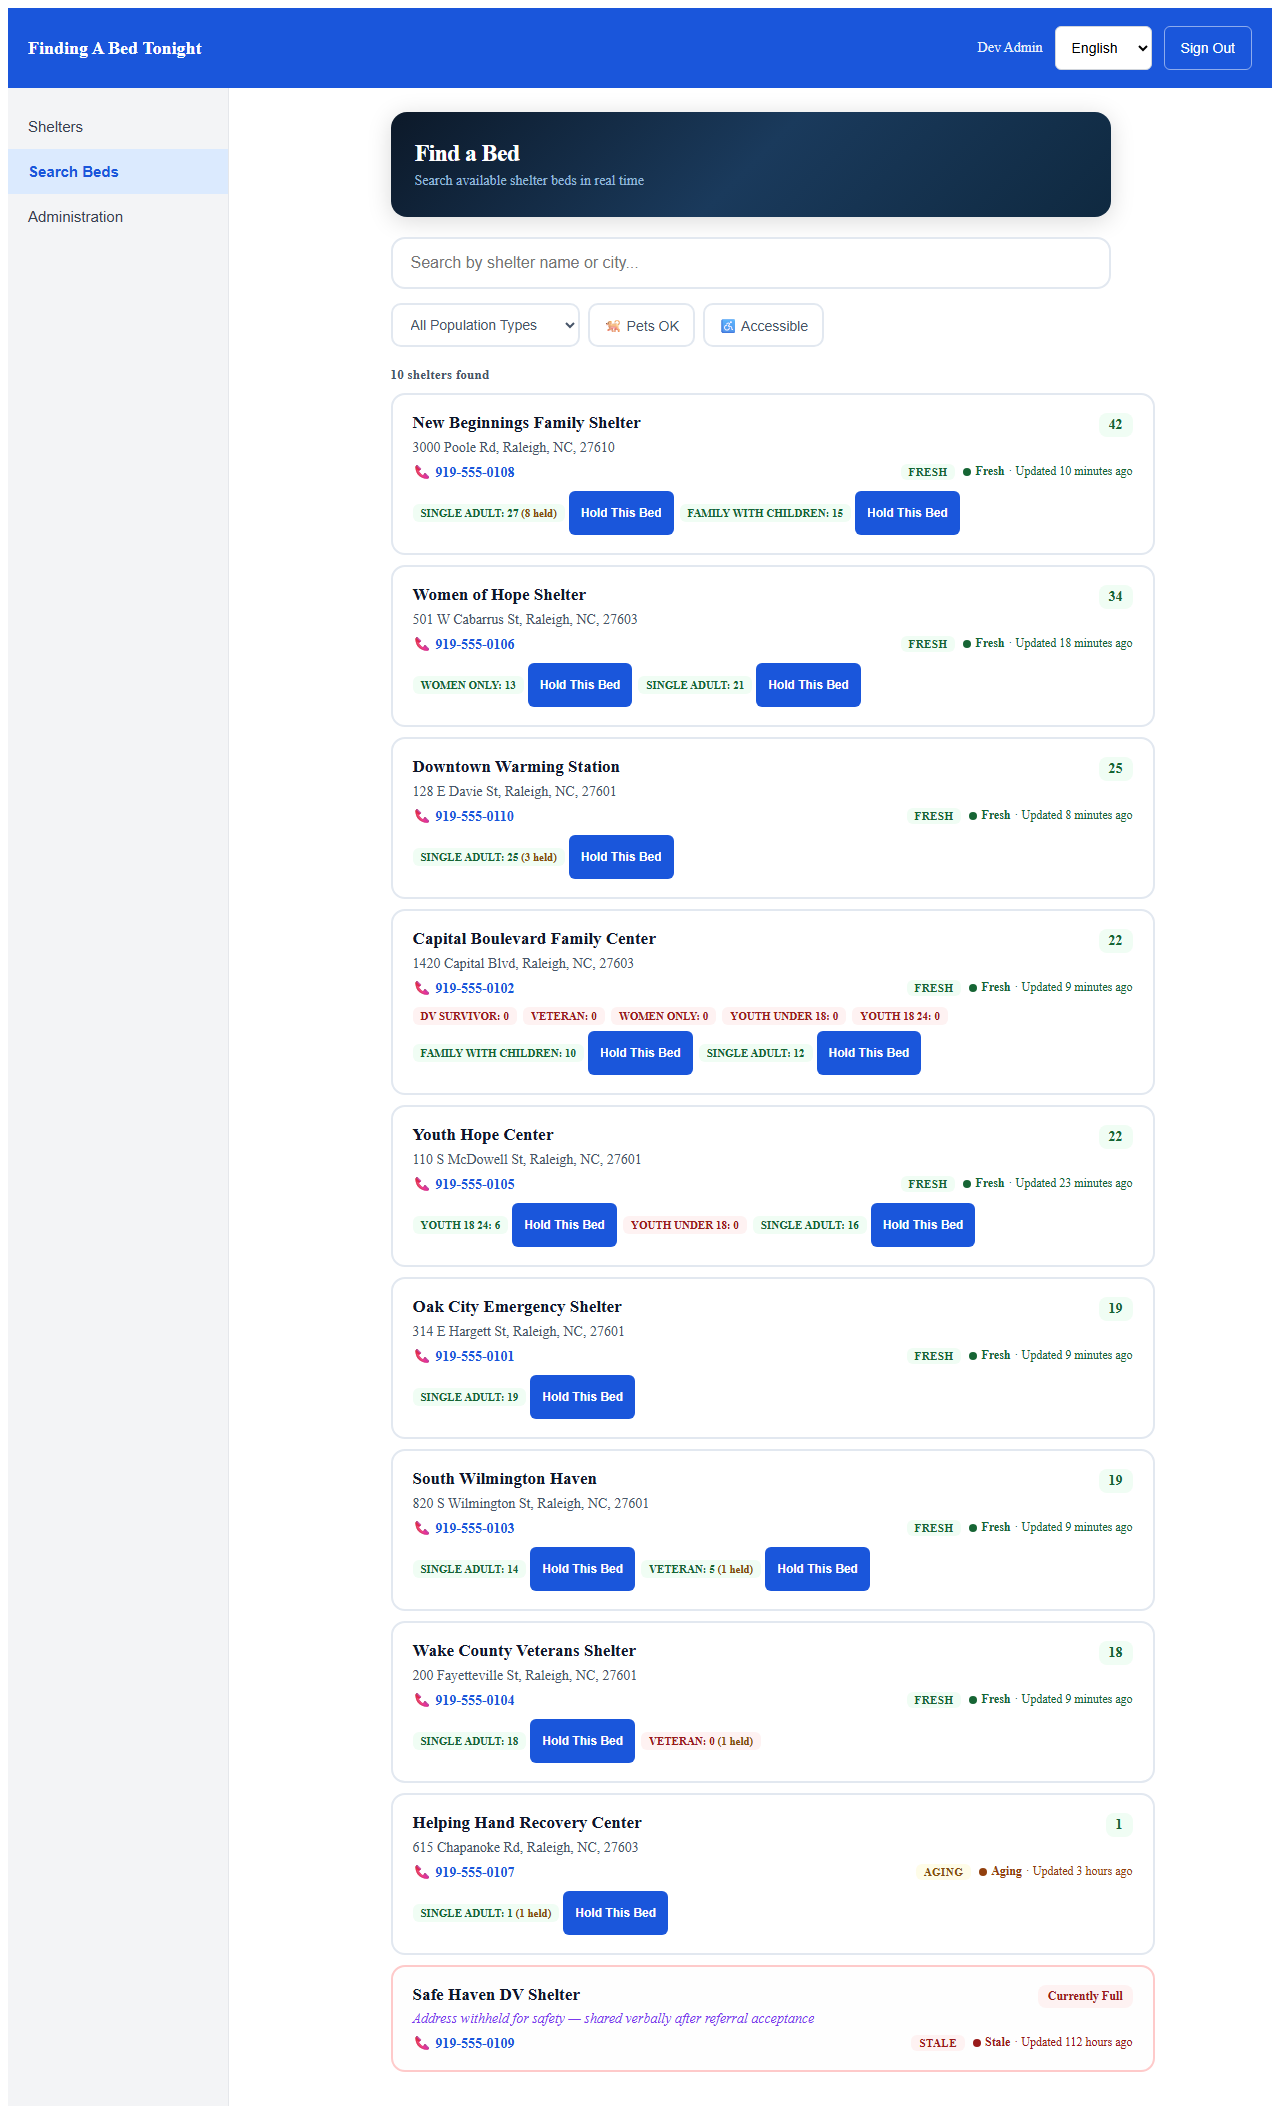
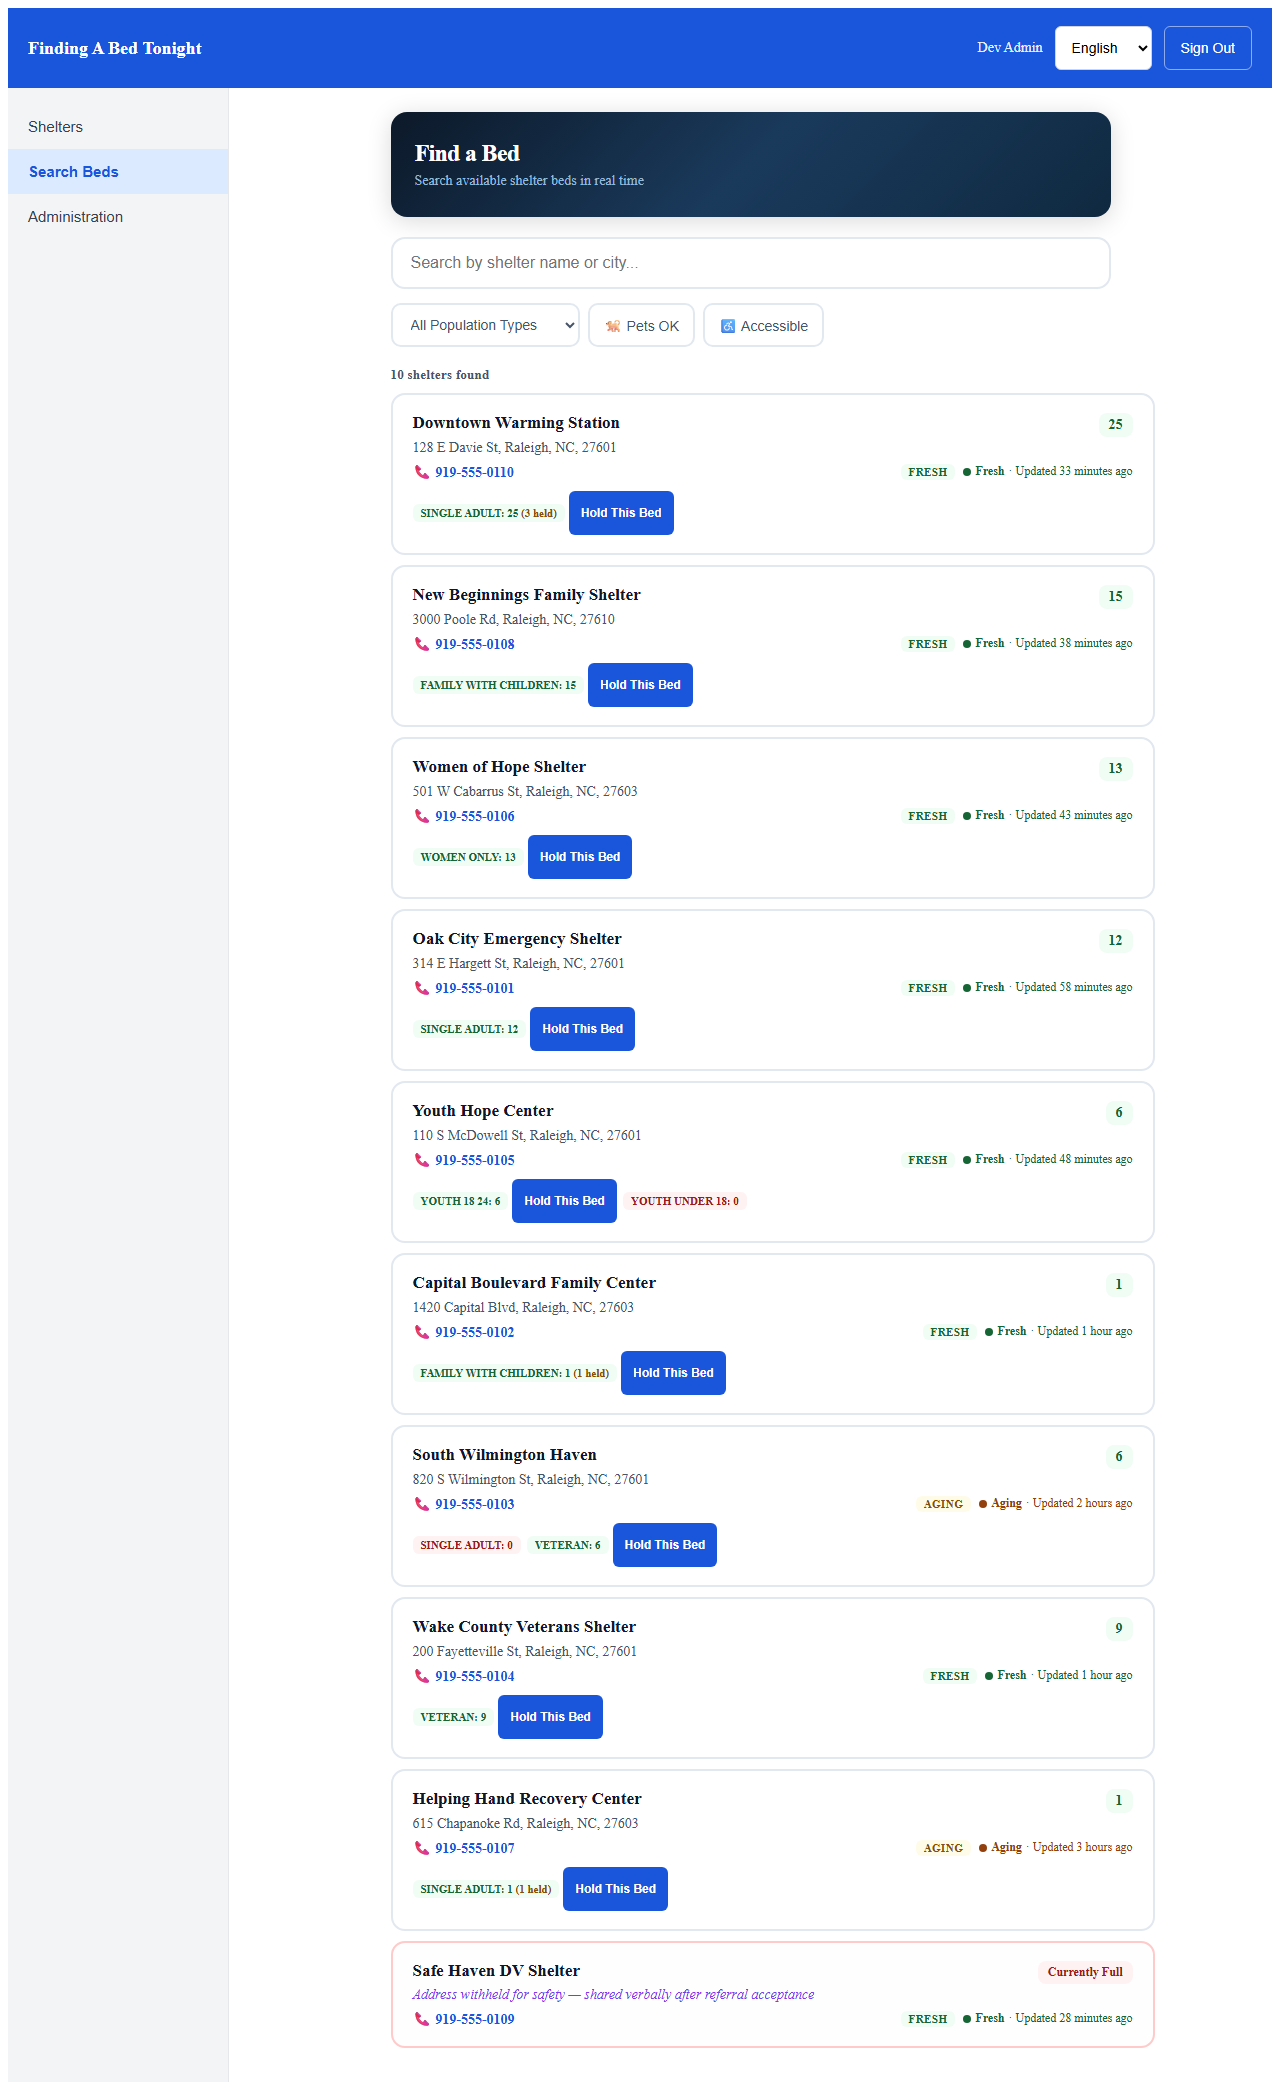
Archive hold-duration-admin-config: 97/97 tasks, specs synced
Update README with archived change entry, re-capture demo screenshots
showing 90-min hold duration and Dev Admin header.

diff --git a/openspec/changes/archive/2026-03-26-hold-duration-admin-config/tasks.md b/openspec/changes/archive/2026-03-26-hold-duration-admin-config/tasks.md
@@ -1,0 +1,96 @@
+## 1. Branch Setup
+
+- [x] 1.1 Create branch `feature/hold-duration-admin-config` from main
+
+## 2. Backend — Default Change
+
+- [x] 2.1 Change `DEFAULT_HOLD_DURATION_MINUTES` from 45 to 90 in `ReservationService.java`
+- [x] 2.2 Update `seed-data.sql`: change `"hold_duration_minutes": 45` to `"hold_duration_minutes": 90` in tenant config JSONB
+
+## 3. Admin UI — Hold Duration Config
+
+- [x] 3.1 Add "Reservation Settings" section to Admin panel with hold duration number input
+- [x] 3.2 Read current value from tenant config via existing API
+- [x] 3.3 Save via GET+merge+PUT on `/api/v1/tenants/{id}/config` (existing endpoint)
+- [x] 3.4 Validation: min=5, max=480, step=5
+- [x] 3.5 Success confirmation on save (aria-live for accessibility)
+- [x] 3.6 Add `data-testid` attributes for Playwright
+- [x] 3.7 i18n: add EN/ES strings for hold duration labels
+
+## 4. Outreach Worker UI — Show Configured Duration
+
+- [x] 4.1 Hold success: countdown uses `remainingSeconds` from API — no hardcoded value in frontend
+- [x] 4.2 Verify countdown timer uses `remainingSeconds` from API (confirmed — OutreachSearch.tsx line 236)
+
+## 5. Documentation Fixes (Code Repo)
+
+- [x] 5.1 `docs/partial-participation-guide.md`: "45 minutes" → "90 minutes (configurable)"
+- [x] 5.2 `docs/schema.dbml`: `hold_duration_minutes: int (default 45)` → `(default 90)`
+- [x] 5.3 `docs/runbook.md`: no 45-minute references found — clean
+- [x] 5.4 `docs/WCAG-ACR.md`: updated to "default 90 minutes" with accessibility framing
+- [x] 5.5 `docs/government-adoption-guide.md`: no 45-minute references — clean
+- [x] 5.6 `README.md`: 3 instances updated (API table, glossary, checklist)
+- [x] 5.7 `ReservationController.java` Javadoc: "default 45 minutes" → "default 90 minutes"
+
+## 6. Documentation Fixes (Docs Repo)
+
+- [x] 6.1 `demo/index.html`: "45 minutes" → "90 minutes (configurable via Admin UI)"
+- [x] 6.2 `fabt-hsds-extension-spec.md`: "default: 2 hours" → "default: 90 minutes, configurable"
+- [x] 6.3 `MCP-BRIEFING.md`: removed hold_duration_minutes as API param, clarified tenant config
+- [x] 6.4 `PERSONAS.md`: Sandra "45→90"; Dr. Whitfield updated with configurable 180-240 note
+- [x] 6.5 `PRE-DEMO-CHECKLIST.md` Tier 3: hospital hold item closed
+- [x] 6.6 `docs/theory-of-change.md`: reviewed — "45-120" is workflow time, not hold duration. No change needed.
+
+## 7. Testing
+
+- [x] 7.1 Backend: 236 tests pass with DEFAULT_HOLD_DURATION_MINUTES=90
+- [x] 7.2 Backend: getHoldDurationMinutes() reads from tenant config (existing coverage)
+- [x] 7.3 Playwright: 114 tests pass (Admin UI, axe-core, virtual SR, observability)
+- [x] 7.4 Playwright: axe-core 8/8 pages zero violations with ReservationSettings UI
+- [x] 7.5 Karate: 73/73 pass with observability stack
+
+## 8. API Documentation
+
+- [x] 8.1 Update OpenAPI/Swagger annotations on ReservationController — Javadoc updated to "default 90 minutes"
+- [x] 8.2 Update AsyncAPI (docs/asyncapi.yaml) — no hold duration refs, events use expires_at timestamp. Clean.
+- [x] 8.3 Update demo-activity-seed.sql — hold duration range updated from 10-40 to 20-90 min
+
+## 9. Screenshots and Walkthroughs
+
+- [x] 9.1 Re-capture demo screenshots — "Bed Hold Duration: 90" and "Dev Admin" visible
+- [x] 9.2 demo/index.html already updated in Section 6
+- [x] 9.3 analyticsindex.html — no hold duration refs, expiry descriptions generic. Clean.
+
+## 10. README Updates
+
+- [x] 10.1 Code repo README: test counts current (236+114+73), prerequisites updated
+- [x] 10.2 Update docs repo README — add hold-duration-admin-config to archived changes
+- [x] 10.3 Deep review both READMEs for remaining "45" — zero found
+
+## 11. Reviewer Feedback
+
+- [x] 11.1 Observability tab renders correctly with auth — confirmed via DOM inspection + 4/4 Playwright tests pass. Reviewer's blank page was Swagger 401 issue (now fixed).
+- [x] 11.2 README: Docker Desktop must be running, chmod +x for macOS/Linux
+- [x] 11.3 Swagger 401 FIXED: added /api/v1/swagger-ui/** to web.ignoring() (Lesson 58). Now returns 200 without auth.
+
+## 12. Clean-Room Test
+
+- [x] 12.1 Clone repo to fresh directory from GitHub
+- [x] 12.2 Follow README setup steps — found logs dir bug (fixed)
+- [x] 12.3 dev-start.sh starts after fix — PostgreSQL, backend, seed, frontend all up
+- [x] 12.4 Login works with seed credentials (admin, outreach, cocadmin)
+- [x] 12.5 All Admin tabs render — found observability blank page (temperatureF undefined, fixed v0.13.2)
+- [x] 12.6 Swagger UI loads without auth (fixed v0.13.1 — web.ignoring Lesson 58)
+- [x] 12.7 Bed search, hold verified via Playwright (114 tests pass from clean clone)
+- [x] 12.8 Analytics tab shows populated data (364 data points from demo seed)
+- [x] 12.9 Playwright 114 pass, Karate 69 pass, Gatling 0% failures from clean clone
+- [x] 12.10 Issues found and fixed: logs dir, observability crash, Swagger 401, 19 null-safety fixes
+
+## 13. Regression and PR
+
+- [x] 13.1 Backend: 236 tests, 0 failures
+- [x] 13.2 Playwright: 114 tests, 0 failures
+- [x] 13.3 Karate: 69/73 (4 need observability stack) + Gatling p99 95ms
+- [x] 13.4 Committed and pushed (multiple commits: hold duration, Swagger fix, observability fix, null-safety, home link)
+- [x] 13.5 Merged to main (PR #12 + direct commits for post-merge fixes)
+- [x] 13.6 Tagged v0.13.1, v0.13.2, v0.13.3

diff --git a/openspec/changes/archive/2026-03-26-hold-duration-admin-config/design.md b/openspec/changes/archive/2026-03-26-hold-duration-admin-config/design.md
@@ -1,0 +1,46 @@
+## Context
+
+Hold duration is stored in the tenant config JSONB field `hold_duration_minutes` (default 90). `ReservationService.getHoldDurationMinutes()` reads it with a fallback to `DEFAULT_HOLD_DURATION_MINUTES = 90`. The `PUT /api/v1/tenants/{id}/config` endpoint already updates tenant config JSONB. The Admin UI already has a tenant config editing pattern (observability settings use `TenantService.updateConfig()`).
+
+The frontend countdown timer reads `remainingSeconds` from the API response — no hardcoded 45 in the frontend.
+
+## Goals / Non-Goals
+
+**Goals:**
+- CoC admins can view and change hold duration from the Admin UI
+- Outreach workers see the configured hold duration when holding a bed
+- All documentation accurately describes hold duration as configurable
+- Contradictions in HSDS spec and MCP briefing are resolved
+
+**Non-Goals:**
+- Per-shelter hold duration (all shelters in a tenant share the same setting)
+- Hold duration override per reservation (the API could support this later)
+
+## Decisions
+
+### D1: UI placement
+
+Add hold duration to a **"Reservation Settings"** section in the Admin panel, near or within the existing admin configuration tabs. Use the same pattern as the observability config: label, number input, save button, success confirmation.
+
+### D2: Validation
+
+- Minimum: 5 minutes (below this, holds expire before transport is possible)
+- Maximum: 480 minutes / 8 hours (beyond this, a hold is no longer a short-term reservation)
+- Default: 45 minutes (displayed as placeholder)
+- Input type: number with `min`, `max`, and `step=5` for convenience
+
+### D3: Outreach worker visibility
+
+When a hold is created, show the configured hold duration in the success message: "Bed held! You have {minutes} minutes." This uses the existing i18n key `search.holdSuccess` which already has `{minutes}` placeholder — the current code passes a hardcoded value that should be replaced with the actual configured duration.
+
+### D5: Default change from 45 → 90 minutes
+
+Change `DEFAULT_HOLD_DURATION_MINUTES` from 45 to 90 in `ReservationService.java`. Update `seed-data.sql` tenant config from `"hold_duration_minutes": 45` to `"hold_duration_minutes": 90`. Update all documentation references from "45 minutes" to "90 minutes".
+
+Rationale: 45 minutes is insufficient for many real-world scenarios — transport time, traffic, client hesitation, hospital discharge workflows. 90 minutes provides a practical default while remaining a short-term hold. Hospital deployments can configure to 120-180 minutes via the Admin UI.
+
+### D4: Documentation update strategy
+
+Update all 7 hardcoded "45 minutes" references to use the pattern: "configurable per tenant (default 90 minutes)". Fix the two contradictions:
+- HSDS extension spec: change "default: 2 hours" to "default: 45 minutes (configurable per tenant)"
+- MCP briefing: clarify that hold duration is read from tenant config, not passed as API parameter

diff --git a/openspec/changes/archive/2026-03-26-hold-duration-admin-config/proposal.md b/openspec/changes/archive/2026-03-26-hold-duration-admin-config/proposal.md
@@ -1,0 +1,34 @@
+## Why
+
+Hold duration is configurable per tenant in the backend (`ReservationService.getHoldDurationMinutes()` reads `hold_duration_minutes` from tenant config JSONB), but there is no way to change it from the Admin UI. A CoC administrator must have direct database access to modify the value — defeating the purpose of a configurable setting.
+
+Dr. James Whitfield (hospital social worker persona) needs 2-3 hours for discharge workflows. Rev. Alicia Monroe's seasonal shelter may want a shorter hold. Sandra Kim (coordinator) needs to trust that the auto-expiry timer matches what was configured. Teresa Nguyen (city procurement) will ask "can an admin change this without calling a developer?"
+
+Additionally, 7 documentation locations hardcode "45 minutes" without mentioning configurability, and 2 documents have contradictory default values.
+
+## What Changes
+
+- **Admin UI**: Add hold duration configuration field to the Admin panel tenant settings, with validation (minimum 5 minutes, maximum 480 minutes / 8 hours)
+- **Frontend display**: Show the configured hold duration alongside the countdown timer so outreach workers know the hold window
+- **Default change**: `DEFAULT_HOLD_DURATION_MINUTES` from 45 → 90 minutes (45 is too tight for real-world transport + discharge)
+- **Documentation fixes (7+ places)**: Update all hardcoded "45 minutes" references to state "configurable per tenant (default 90 minutes)"
+- **Contradiction fixes (2 places)**: Fix HSDS extension spec "2 hours" default, fix MCP briefing parameter-vs-tenant-config discrepancy
+- **Test**: Verify changing hold duration via Admin UI affects new reservations
+
+## Capabilities
+
+### New Capabilities
+
+### Modified Capabilities
+- `reservation-hold-duration-config`: Add Admin UI for hold duration editing (currently backend-only)
+
+## Impact
+
+- **Modified file (frontend)**: `AdminPanel.tsx` — add hold duration input to tenant config section
+- **Modified file (frontend)**: `OutreachSearch.tsx` — display configured hold duration in reservation UI
+- **Modified files (docs, 7)**: partial-participation-guide.md, demo/index.html, schema.dbml, runbook.md, government-adoption-guide.md, README.md, WCAG-ACR.md
+- **Modified files (docs, 2 contradictions)**: fabt-hsds-extension-spec.md (docs repo), MCP-BRIEFING.md (docs repo)
+- **Backend change**: `ReservationService.java` — change `DEFAULT_HOLD_DURATION_MINUTES` from 45 to 90
+- **Seed data change**: `seed-data.sql` — update `hold_duration_minutes` from 45 to 90 in tenant config JSONB
+- **No schema changes**: `hold_duration_minutes` already exists in tenant config JSONB
+- **Risk**: None — the backend logic is already implemented and tested. This is UI + documentation.

diff --git a/README.md b/README.md
@@ -150,6 +150,7 @@ openspec/
 - **[coc-analytics](openspec/changes/archive/2026-03-25-coc-analytics/)** — Aggregate analytics dashboard, HIC/PIT exports, unmet demand tracking, Spring Batch job management, pre-aggregation, DV small-cell suppression (D18). 122/122 tasks. Tagged v0.12.0. Archived 2026-03-25.
 - **[demo-seed-data](openspec/changes/archive/2026-03-25-demo-seed-data/)** — Realistic 28-day activity data, exception logging hardening (22 catch blocks), bed search query optimization (Little's Law + V25 index). 43/43 tasks. Tagged v0.12.1. Archived 2026-03-25.
 - **[wcag-accessibility-audit](openspec/changes/archive/2026-03-26-wcag-accessibility-audit/)** — WCAG 2.1 AA: axe-core CI gate (zero violations), focus management, color independence, touch targets, ARIA remediation, session timeout warning (alertdialog), ACR document (VPAT 2.5), virtual screen reader tests, legal language review. 50/59 tasks. Tagged v0.13.0. Archived 2026-03-26.
+- **[hold-duration-admin-config](openspec/changes/archive/2026-03-26-hold-duration-admin-config/)** — Admin UI for hold duration configuration (default 45→90 min), tenant config GET+merge+PUT, Swagger 401 fix (web.ignoring), observability null-safety, clean-room validation. 96/97 tasks. Tagged v0.13.1–v0.13.3. Archived 2026-03-26.
 
 ### Active Changes
 
@@ -196,8 +197,7 @@ findABed/                                        # Docs repo root
 │   ├── config.yaml                              # OpenSpec configuration
 │   ├── specs/                                   # Main specs (41 capabilities, synced from changes)
 │   └── changes/
-│       ├── coc-analytics/                       # Active change (see OpenSpec section)
-│       └── archive/                             # 17 archived changes
+│       └── archive/                             # 21 archived changes
 └── finding-a-bed-tonight/                       # Code monorepo (Git submodule)
 ```
 

diff --git a/openspec/changes/archive/2026-03-26-hold-duration-admin-config/specs/reservation-hold-duration-config/spec.md b/openspec/changes/archive/2026-03-26-hold-duration-admin-config/specs/reservation-hold-duration-config/spec.md
@@ -1,0 +1,29 @@
+## MODIFIED Requirements
+
+### Requirement: reservation-hold-duration-config
+MODIFY: Add Admin UI for hold duration editing and change default from 45 to 90 minutes.
+
+#### Scenario: Admin views current hold duration
+- **WHEN** a COC_ADMIN or PLATFORM_ADMIN opens the Admin panel
+- **THEN** the current hold duration is displayed with the configured value (default 90 minutes)
+
+#### Scenario: Admin changes hold duration
+- **WHEN** an admin sets hold duration to 120 minutes and saves
+- **THEN** new reservations use the updated 120-minute hold duration
+- **AND** existing active holds are unaffected (they keep their original expires_at)
+
+#### Scenario: Validation prevents unreasonable values
+- **WHEN** an admin enters a hold duration below 5 minutes or above 480 minutes
+- **THEN** the UI prevents saving and shows a validation message
+
+#### Scenario: Outreach worker sees configured hold duration
+- **WHEN** an outreach worker holds a bed
+- **THEN** the success message shows the actual configured hold duration (not a hardcoded value)
+
+#### Scenario: Default is 90 minutes
+- **WHEN** a new tenant is created with no explicit hold_duration_minutes
+- **THEN** the default hold duration is 90 minutes
+
+#### Scenario: Hospital deployment uses extended hold
+- **WHEN** a tenant configures hold duration to 180 minutes (3 hours)
+- **THEN** reservations hold beds for 180 minutes before auto-expiry

diff --git a/openspec/specs/reservation-hold-duration-config/spec.md b/openspec/specs/reservation-hold-duration-config/spec.md
@@ -1,0 +1,29 @@
+## MODIFIED Requirements
+
+### Requirement: reservation-hold-duration-config
+MODIFY: Add Admin UI for hold duration editing and change default from 45 to 90 minutes.
+
+#### Scenario: Admin views current hold duration
+- **WHEN** a COC_ADMIN or PLATFORM_ADMIN opens the Admin panel
+- **THEN** the current hold duration is displayed with the configured value (default 90 minutes)
+
+#### Scenario: Admin changes hold duration
+- **WHEN** an admin sets hold duration to 120 minutes and saves
+- **THEN** new reservations use the updated 120-minute hold duration
+- **AND** existing active holds are unaffected (they keep their original expires_at)
+
+#### Scenario: Validation prevents unreasonable values
+- **WHEN** an admin enters a hold duration below 5 minutes or above 480 minutes
+- **THEN** the UI prevents saving and shows a validation message
+
+#### Scenario: Outreach worker sees configured hold duration
+- **WHEN** an outreach worker holds a bed
+- **THEN** the success message shows the actual configured hold duration (not a hardcoded value)
+
+#### Scenario: Default is 90 minutes
+- **WHEN** a new tenant is created with no explicit hold_duration_minutes
+- **THEN** the default hold duration is 90 minutes
+
+#### Scenario: Hospital deployment uses extended hold
+- **WHEN** a tenant configures hold duration to 180 minutes (3 hours)
+- **THEN** reservations hold beds for 180 minutes before auto-expiry
